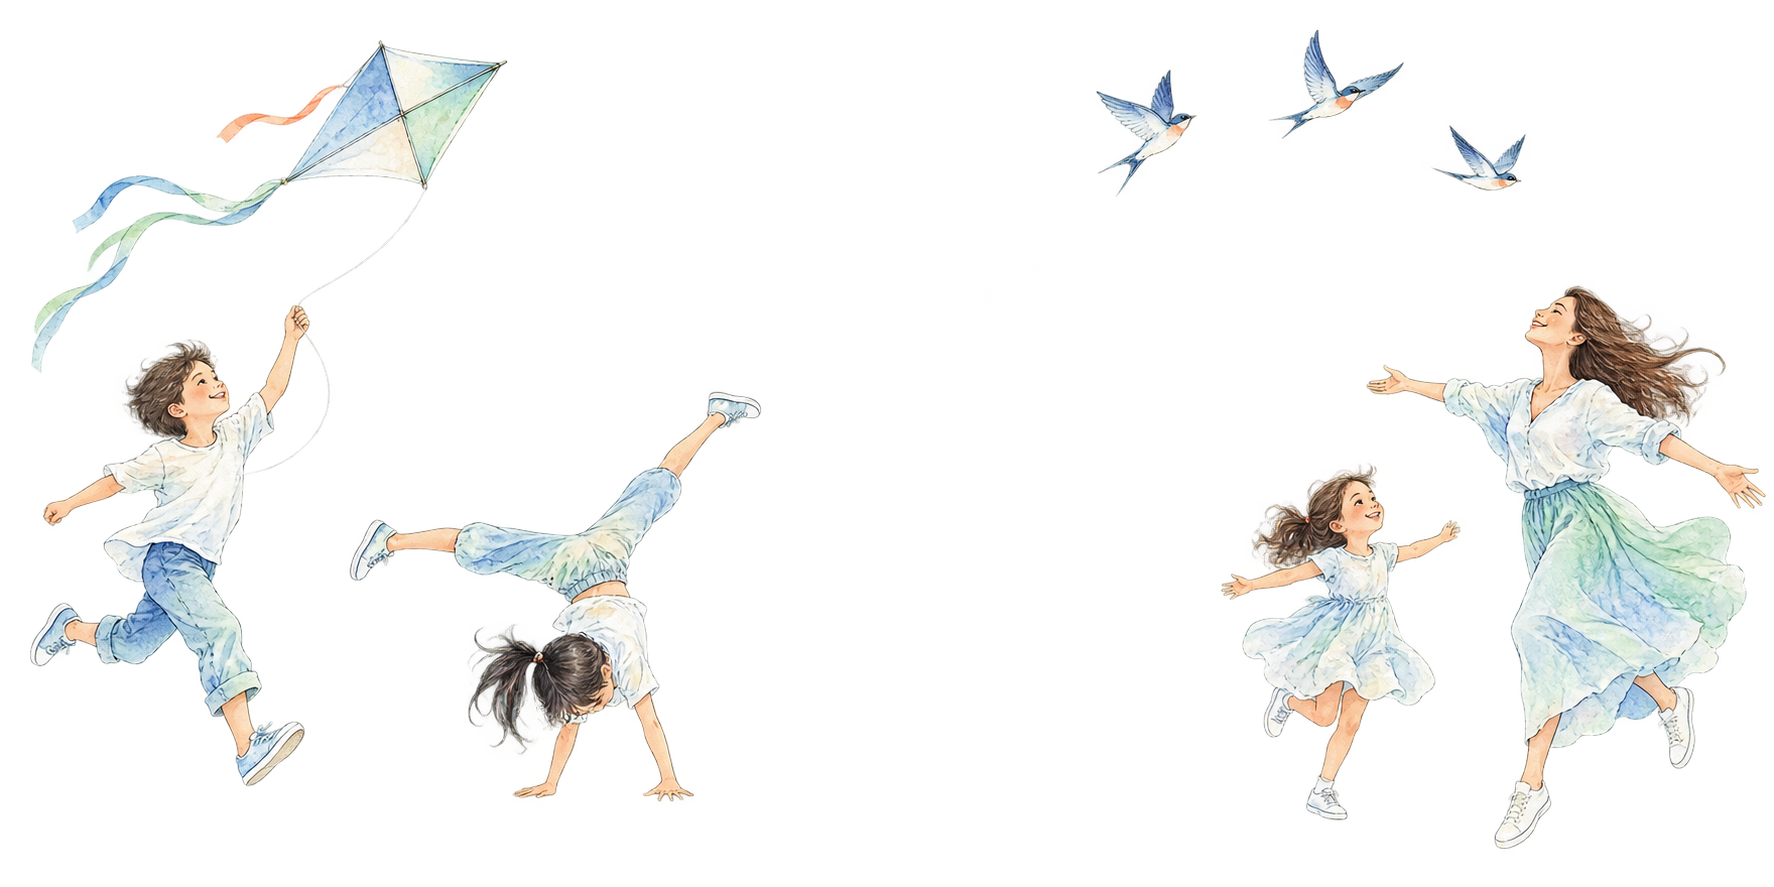
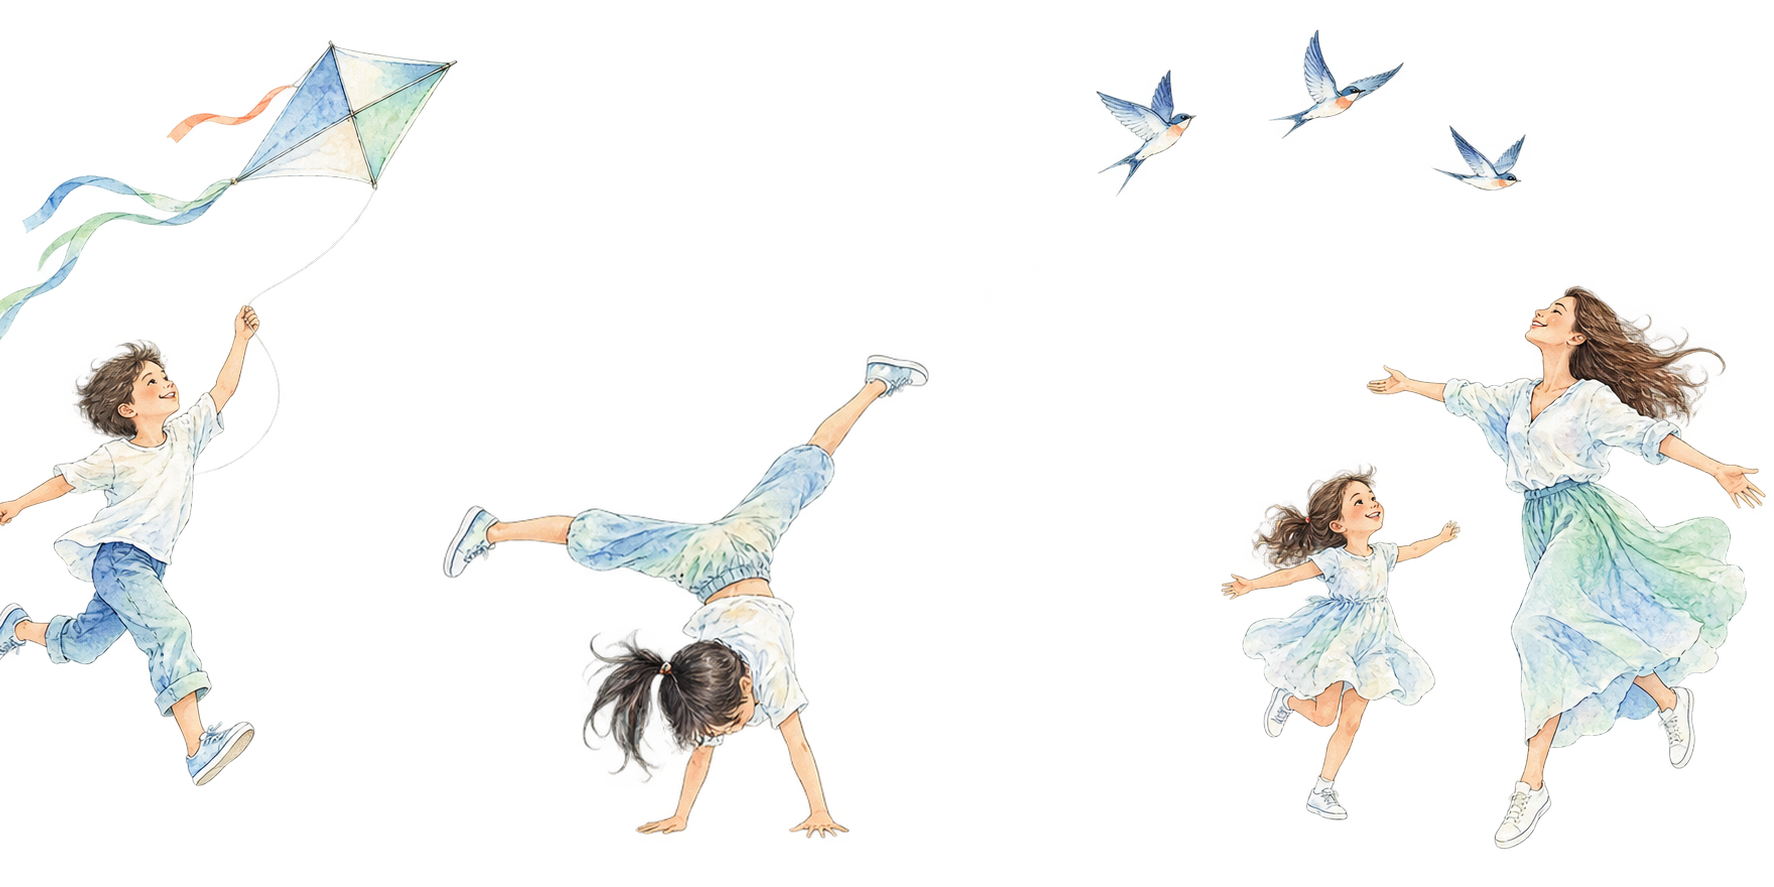
Adjust hero figures and simplify CTA

Changed region(s): [[0.0, 0.0304, 0.279, 0.8828], [0.186, 0.3957, 0.5271, 0.9436], [0.279, 0.8828, 0.31, 0.9132]]

diff --git a/app/globals.css b/app/globals.css
@@ -168,3 +168,4 @@ main{overflow:visible}
 @media(min-width:901px){.portrait-caption{margin-top:-24px;padding-top:0;border-top:0}}
 .fit-section{padding-top:55px}
 @media(max-width:560px){.fit-section{padding-top:38px}}
+.hero .cta-wrap>span{display:none}

diff --git a/docs/style.css b/docs/style.css
@@ -166,3 +166,4 @@ main{overflow:visible}
 @media(min-width:901px){.portrait-caption{margin-top:-24px;padding-top:0;border-top:0}}
 .fit-section{padding-top:55px}
 @media(max-width:560px){.fit-section{padding-top:38px}}
+.hero .cta-wrap>span{display:none}
